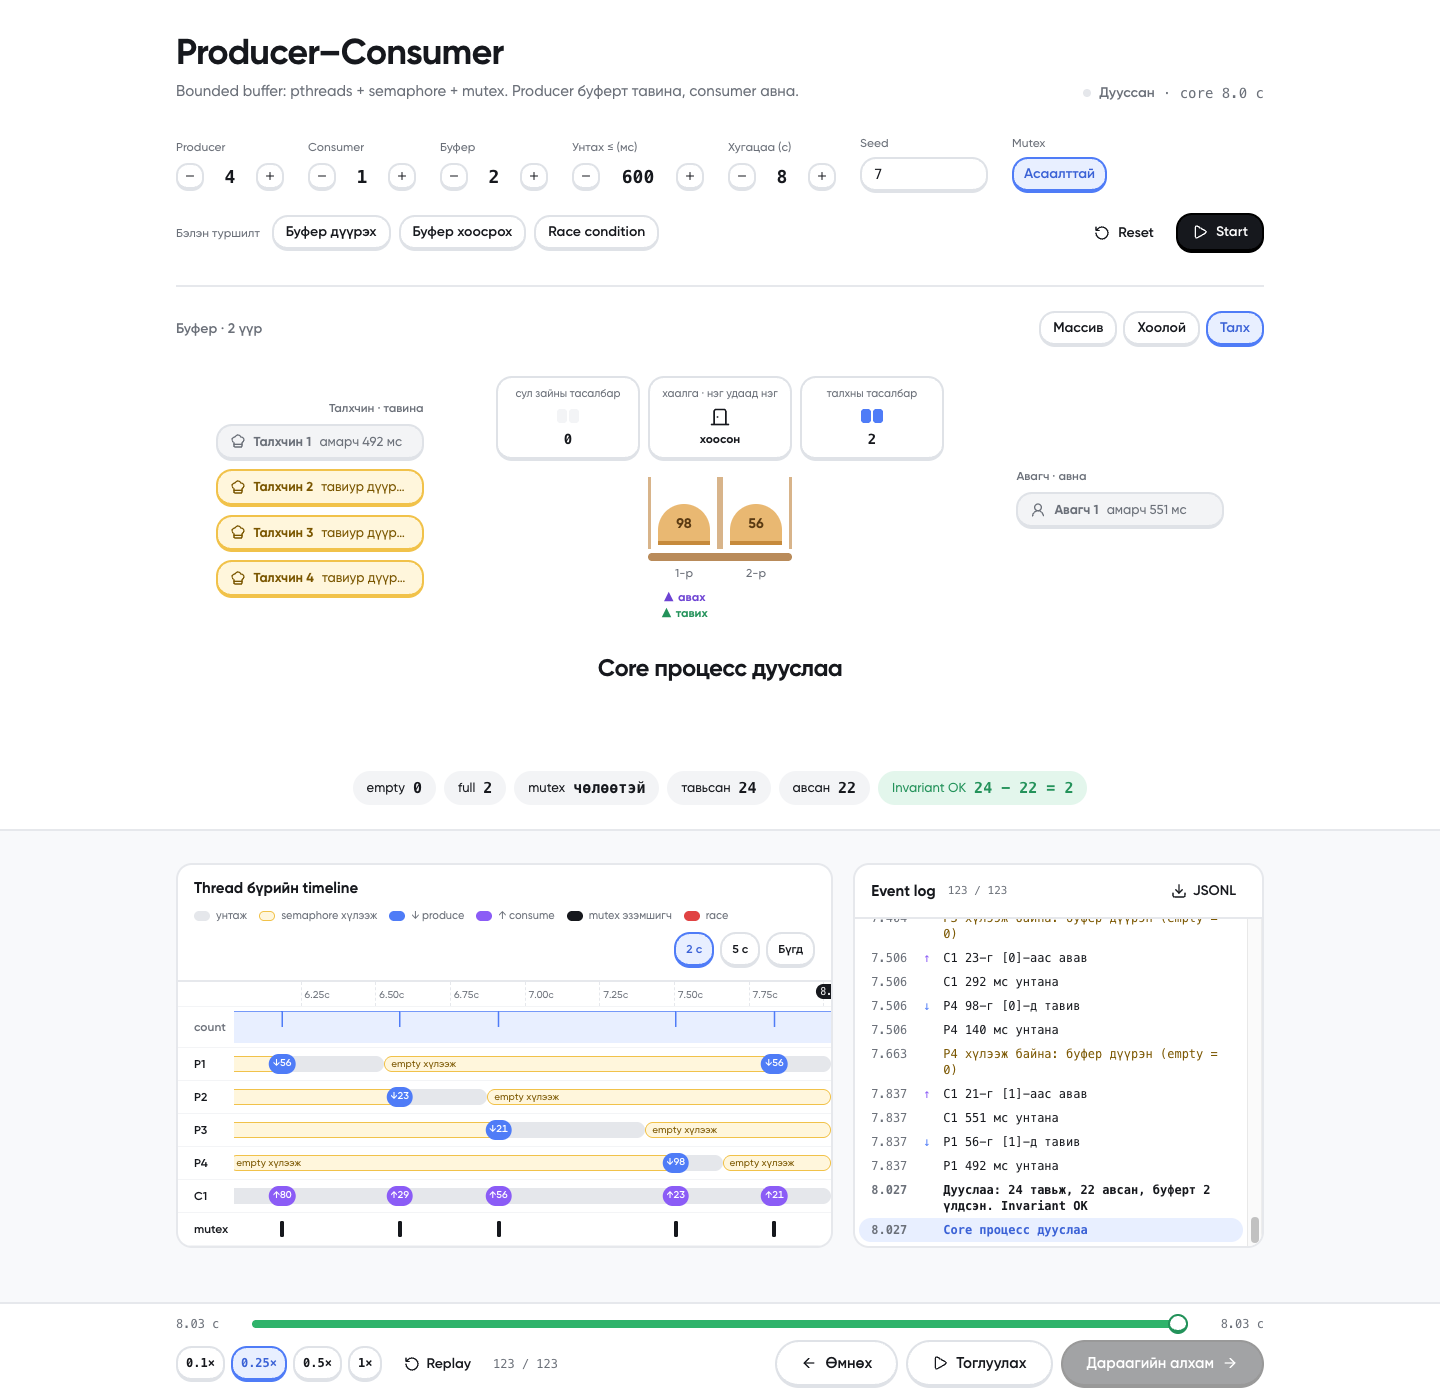
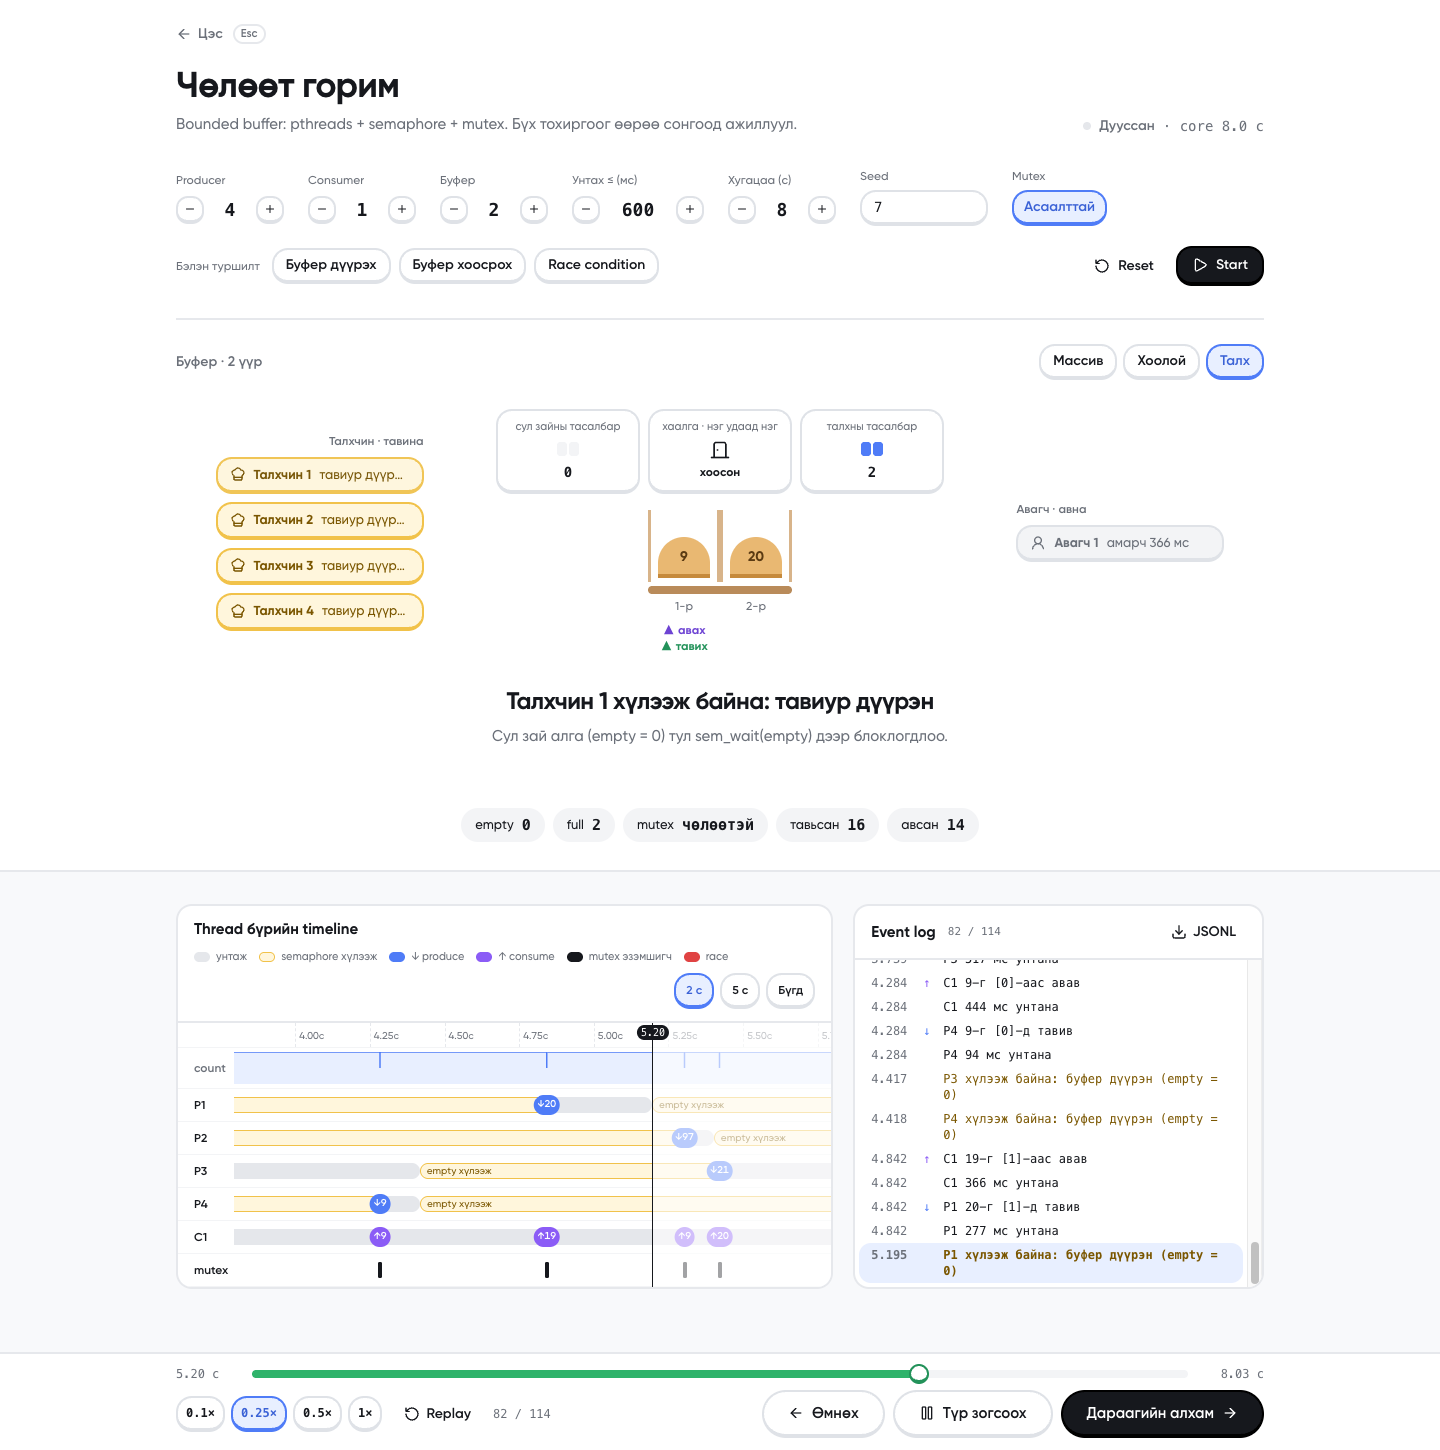
fix: document the menu, tutorial and levels

diff --git a/docs/Manual.md b/docs/Manual.md
@@ -21,7 +21,21 @@ cd os-bd1-producer-consumer
 npm install
 npm run dev
 ```
-Дараа нь браузерт **http://localhost:3000**-ийг нээнэ. `npm run dev` нь эхлээд C core-ийг (`src/core/pc`) автоматаар build хийнэ.
+Дараа нь браузерт **http://localhost:3000**-ийг нээхэд эхлэлийн цэс гарна. `npm run dev` нь эхлээд C core-ийг (`src/core/pc`) автоматаар build хийнэ.
+
+### Эхлэлийн цэс
+Нээхэд тоглоомын цэс шиг эхлэлийн дэлгэц гарна (зураг 8). Баруун талд нь жинхэнэ C core-ийн жижиг run "demo" болж тасралтгүй эргэлдэнэ. **↑ ↓** сонгох, **Enter** нээх, **1–4** шууд нээх, бусад дэлгэцээс **Esc** дарж цэс рүү буцна.
+
+| Цэс | Хаяг | Юу хийх вэ |
+|---|---|---|
+| **Хичээл** | `/learn` | 9 алхамтай хичээл (зураг 9). Бодит run-ийг алхам алхмаар тоглуулж, алхам бүрт тайлбар гаргаж, тухайн хэсгийг цэнхэр хүрээгээр тодруулна (буфер, producer, consumer, semaphore). 3 алхамд асуулт байгаа, зөв хариулсны дараа үргэлжилнэ. |
+| **Түвшингүүд** | `/levels` | 3 даалгавар: Буфер дүүрэх, Буфер хоосрох, Race condition. Тохиргоо нь түгжигдсэн, Start дараад ажигласны дараа run дуусахад асуулт гарна (зураг 10). Зөв хариулсан түвшин "Дууссан" гэж тэмдэглэгдэнэ (тухайн browser-т хадгалагдана). |
+| **Чөлөөт горим** | `/play` | Бүх тохиргоог өөрөө сонгох горим. Доорх оролт, тохиргоо, удирдлагын тайлбар энэ горимд хамаарна. |
+| **Тухай** | `/about` | Төсөл, баг, C core → Next.js route → browser хэрхэн холбогддог, гол ойлголтууд. |
+
+![Эхлэлийн цэс](screenshots/web_08_menu.png)
+![Хичээл](screenshots/web_09_learn.png)
+![Түвшний асуулт](screenshots/web_10_level_quiz.png)
 
 ### Оролт ба тохиргоо
 | Талбар | Утга | Хүрээ | Анхдагч |

diff --git a/README.md b/README.md
@@ -9,8 +9,8 @@ UI дүрслэл: **Buffer animation** (тойрог буфер, semaphore то
 ## Бүтэц
 ```
 src/core/        C: pthreads + semaphore, үйл явдал бүрийг JSON мөр болгон гаргана
-src/app/         Next.js: хуудас + /api/run (core-ийг ажиллуулж event-үүдийг stream хийнэ)
-src/components/  UI: тохиргоо, тойрог буферийн анимаци, thread timeline, Pause/Step/Replay
+src/app/         Next.js: цэс, /learn, /levels, /play, /about + /api/run (core-ийг ажиллуулж event-үүдийг stream хийнэ)
+src/components/  UI: цэс, хичээл, түвшин, буферийн 3 дүрслэл, thread timeline, event log
 src/lib/         event → timeline загвар, race илрүүлэлт + тест
 tests/           core-ийн автомат тест (run_tests.py) + results.md
 docs/            Manual.md (хэрэглэгчийн + operational заавар), screenshots/, EVENT_FORMAT.md
@@ -23,7 +23,11 @@ git clone https://github.com/khuslenshi/os-bd1-producer-consumer.git && cd os-bd
 npm install
 npm run dev          # C core-ийг автоматаар build хийгээд → http://localhost:3000
 ```
-Дэлгэц дээр тохиргоогоо сонгоод **Start** дарна, эсвэл "Буфер дүүрэх", "Буфер хоосрох", "Race condition" бэлэн туршилтын аль нэгийг сонгоно. Timeline дээр дарж/чирж аль ч агшин руу очно; `←` `→` нэг event, `Space` pause.
+Эхлэлийн цэснээс сонгоно (↑ ↓ + Enter, Esc буцах):
+- **Хичээл** (`/learn`): бодит run-ийг 9 алхамд хувааж тайлбарлана, асуулттай.
+- **Түвшингүүд** (`/levels`): Буфер дүүрэх, Буфер хоосрох, Race condition. Run дуусахад асуулт гарна.
+- **Чөлөөт горим** (`/play`): бүх тохиргоог өөрөө сонгоно. Timeline дээр дарж/чирж аль ч агшин руу очно; `←` `→` нэг event, `Space` pause.
+- **Тухай** (`/about`).
 
 ### Core-ийг командаас шууд ажиллуулах (номын хэлбэр)
 ```bash
